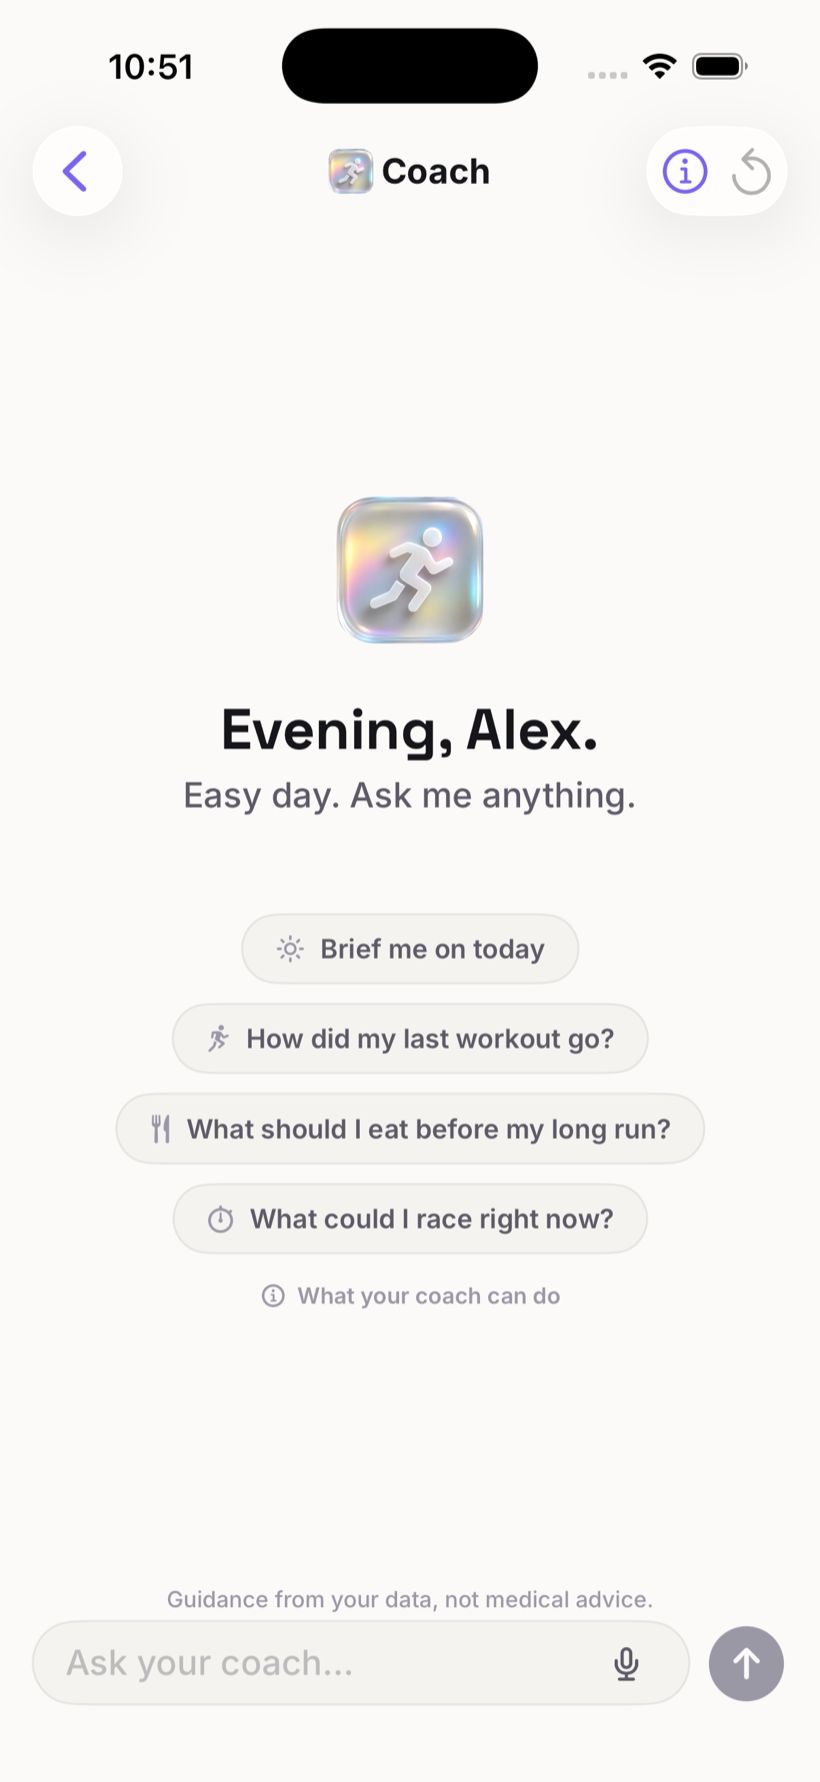
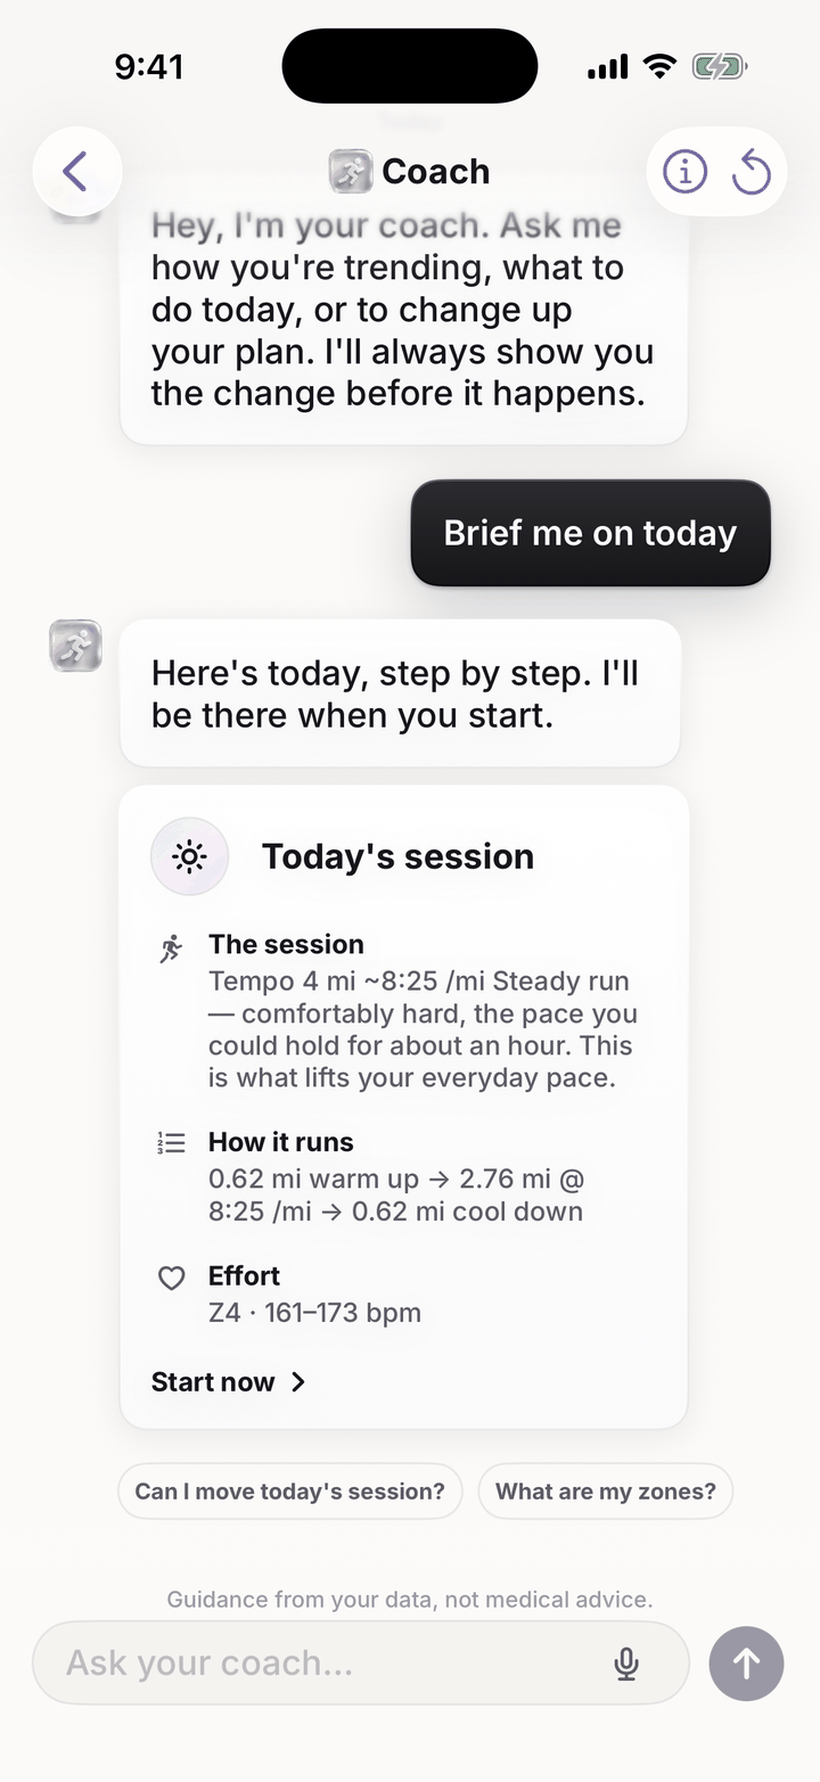
Ship the current site: real screens, weekly-anchored pricing, and honest membership copy
Brings production level with feat/route-suggestion's website/ (08-28/29 real
app screens + weekly pricing) and adds the 7-day-trial wording that replaces
"free, forever" now that onboarding is a membership gate.

Claude-Session: https://claude.ai/code/session_01HQfnZjmcd7Row84q6qVRCn

diff --git a/website/app/page.tsx b/website/app/page.tsx
@@ -11,16 +11,15 @@ const appSchema = {
   name: "Momentum: Run Training Plans",
   operatingSystem: "iOS",
   applicationCategory: "HealthApplication",
-  url: "https://momentumco.app",
+  url: "https://momentumrunning.app",
   installUrl: APP_STORE_URL,
   offers: [
-    { "@type": "Offer", price: "0", priceCurrency: "USD", description: "Free — track every run" },
-    { "@type": "Offer", price: "9.99", priceCurrency: "USD", description: "momentum Pro, monthly" },
+    { "@type": "Offer", price: "5.99", priceCurrency: "USD", description: "momentum Pro, weekly" },
     {
       "@type": "Offer",
-      price: "59.99",
+      price: "29.99",
       priceCurrency: "USD",
-      description: "momentum Pro, annual — save 50% vs monthly",
+      description: "momentum Pro, annual — 7-day free trial, then $0.58 a week, save 90% vs weekly",
     },
   ],
 };
@@ -37,6 +36,7 @@ export default function Home() {
         <Training />
         <Intelligence />
         <Fuel />
+        <Gallery />
         <Method />
         <RaceDay />
         <Pricing />
@@ -101,16 +101,16 @@ function Hero() {
           <div className="hero-orbit" aria-hidden />
           {/* Both chips quote the capture beside them — no invented numbers. */}
           <div className="stat-pill pill-1" aria-hidden>
-            <b>Easy 3.5 mi</b>
-            <small>Today&rsquo;s plan · 11:45 /mi</small>
+            <b>26.22 mi</b>
+            <small>Austin Marathon · traced</small>
           </div>
           <div className="stat-pill pill-2" aria-hidden>
-            <b>26.2 mi</b>
-            <small>Austin Marathon · traced</small>
+            <b>2:58:41</b>
+            <small>Finish · 6:49 /mi</small>
           </div>
           <PhoneFrame
             src="/shots/hero-route.png"
-            alt="Momentum's Today screen: the Austin Marathon course traced in lavender on a light map, with today's planned easy run ready to start."
+            alt="A finished Austin Marathon in Momentum: the whole course traced in lavender across the city, 26.22 miles in 2:58:41 at 6:49 per mile."
             large
             priority
           />
@@ -183,11 +183,11 @@ function Training() {
                 Base. Build. Peak. Taper. Every session has a reason, every pace has a purpose, and
                 missed days simply move.
               </p>
-              <p className="story-note">Week 1 · Base — laying the foundation</p>
+              <p className="story-note">Week 4 · Recovery — a planned down week</p>
               <div className="story-media">
                 <PhoneFrame
                   src="/shots/plan.png"
-                  alt="Momentum's weekly plan: a base week with an easy run and a strength day, each with its target."
+                  alt="Momentum's weekly plan: a marathon block 28 weeks out, showing a planned recovery week of 32 miles with an easy run, a recovery jog, two rest days, and a progression run."
                 />
               </div>
             </article>
@@ -265,7 +265,7 @@ function Intelligence() {
               <div className="aurora" aria-hidden />
               <PhoneFrame
                 src="/shots/coach.png"
-                alt="The Momentum coach: a chat that opens with suggested questions about today's session, your last workout, and what you could race."
+                alt="The Momentum coach: asked to brief today, it lays out the session step by step — a 4 mile tempo at 8:25 per mile, the warm up and cool down around it, and the Z4 heart-rate band it should sit in."
               />
             </div>
           </Reveal>
@@ -287,7 +287,7 @@ function Fuel() {
           <div className="duo-media">
             <PhoneFrame
               src="/shots/fuel.png"
-              alt="Momentum's Fuel page: calories and carbs banked for tomorrow's session, macro rings, and meals logged in plain language."
+              alt="Momentum's Fuel page: 3,050 calories against a 2,100 floor, roughly 390 grams of carbs banked for tomorrow's session, macro rings for carbs, protein, fat and sodium, and meals logged in plain language."
             />
           </div>
         </Reveal>
@@ -302,6 +302,72 @@ function Fuel() {
             </p>
           </div>
         </Reveal>
+      </div>
+    </section>
+  );
+}
+
+/* ————————————————————————————————————————————————————————————
+   6b · The rest of the app — the four screens the tour deck shows that the
+        sections above don't. A WRAPPING grid, never a horizontal scroller:
+        no page on this site moves sideways (owner rule 2026-08-20).
+   ———————————————————————————————————————————————————————————— */
+
+function Gallery() {
+  const shots = [
+    {
+      src: "/shots/trends.png",
+      cap: "Trends",
+      note: "469 miles this year, 88 active days",
+      alt: "Momentum's Trends: daily movement averaging 7.8 thousand steps, 144 miles this month against 469 this year, and a consistency heatmap of 88 active days over sixteen weeks.",
+    },
+    {
+      src: "/shots/vitals.png",
+      cap: "Vitals",
+      note: "HRV, resting heart rate, breathing, temperature",
+      alt: "Momentum's vitals: heart-rate variability at 68 milliseconds, three above normal, a resting heart rate of 52, breathing at 14.3 a minute and a wrist temperature of 34.6 degrees, each with its own trend.",
+    },
+    {
+      src: "/shots/strength.png",
+      cap: "Strength",
+      note: "165,000 lb moved in seven days",
+      alt: "Momentum's muscle load: 165 thousand pounds moved across every lift in seven days, split around a wheel by region — legs, arms, back, shoulders, core and chest.",
+    },
+    {
+      src: "/shots/run-detail.png",
+      cap: "Every run, kept",
+      note: "10.16 mi · 1:30:12 · 8:53 /mi",
+      alt: "A finished long run in Momentum: the Lady Bird Lake loop traced in lavender through Austin, 10.16 miles in 1 hour 30 at 8:53 per mile.",
+    },
+  ];
+  return (
+    <section className="section" id="more">
+      <div className="wrap">
+        <Reveal>
+          <div className="section-head">
+            <div>
+              <p className="kicker">Everything else</p>
+              <h2 className="display">The rest of the picture.</h2>
+            </div>
+            <p className="lede">
+              Training is one screen of many. What you did, what it cost you, and what your body did
+              about it — all of it kept, all of it yours.
+            </p>
+          </div>
+        </Reveal>
+        <div className="gallery">
+          {shots.map((shot) => (
+            <Reveal key={shot.src}>
+              <figure className="gallery-item">
+                <PhoneFrame src={shot.src} alt={shot.alt} />
+                <figcaption>
+                  <b>{shot.cap}</b>
+                  <span>{shot.note}</span>
+                </figcaption>
+              </figure>
+            </Reveal>
+          ))}
+        </div>
       </div>
     </section>
   );
@@ -356,6 +422,9 @@ function Method() {
 
 /* ————————————————————————————————————————————————————————————
    8 · Race day — the charcoal proof card. The numbers quote the capture.
+        The marathon RESULT moved up to the hero (2026-08-29), so this card shows the other half
+        of the promise the copy already made — "a taper that delivers you to the start line
+        ready" — and its three numbers quote the readiness screen beside them, not the finish.
    ———————————————————————————————————————————————————————————— */
 
 function RaceDay() {
@@ -372,16 +441,16 @@ function RaceDay() {
             </p>
             <div className="race-stats">
               <div className="race-stat">
-                <b className="num">26.22 mi</b>
-                <small>Austin Marathon</small>
+                <b className="num">100</b>
+                <small>Readiness · primed</small>
               </div>
               <div className="race-stat">
-                <b className="num">2:58:41</b>
-                <small>Finish · sub-3</small>
+                <b className="num">7h 19m</b>
+                <small>Sleep</small>
               </div>
               <div className="race-stat">
-                <b className="num">6:49 /mi</b>
-                <small>Avg pace</small>
+                <b className="num">0.89</b>
+                <small>Training load</small>
               </div>
             </div>
           </div>
@@ -389,8 +458,8 @@ function RaceDay() {
         <Reveal>
           <div className="race-media">
             <PhoneFrame
-              src="/shots/run-detail.png"
-              alt="A finished marathon in Momentum: the Austin course traced in lavender, 26.22 miles in 2:58:41 at 6:49 per mile."
+              src="/shots/readiness.png"
+              alt="Momentum's readiness on race morning: a ring reading 100, primed, with the note 'well recovered — a good day to push', over the day's strain, training load and sleep."
             />
           </div>
         </Reveal>
@@ -432,7 +501,7 @@ function Pricing() {
             <div className="price-row">
               <h3>momentum Pro</h3>
               <p className="price">
-                $59.99 <span>/ year</span>
+                $0.58 <span>/ week</span>
               </p>
             </div>
             <div className="features">
@@ -447,9 +516,10 @@ function Pricing() {
                 Get momentum Pro <span className="arrow" aria-hidden>↗</span>
               </a>
               <p className="price-note">
-                $59.99/year — under $5 a month, half the monthly price. Or $9.99/month.
+                7 days free, then $29.99 billed yearly — $0.58 a week, 90% off the weekly price. Or
+                $5.99/week, no trial.
                 <br />
-                Tracking every run is free, forever. Billed by Apple · cancel anytime.
+                Billed by Apple · cancel anytime in Settings.
               </p>
             </div>
           </div>
@@ -466,8 +536,8 @@ function Pricing() {
 function FAQ() {
   const items = [
     {
-      q: "Is momentum free?",
-      a: "Tracking every run is free, forever. momentum Pro — the full adaptive plan, AI coach, voice guidance, and advanced analytics — is $59.99/year, which works out to under $5 a month, half the monthly price. Prefer month to month? $9.99.",
+      q: "Is there a free trial?",
+      a: "Yes. momentum is a membership: every new runner starts with a 7-day free trial of momentum Pro on the annual plan, then $29.99 billed yearly, which works out to $0.58 a week, 90% off the weekly price. Prefer to go week to week? $5.99, no trial. Cancel anytime in your Apple subscriptions and you keep access until the end of the period.",
     },
     {
       q: "Do I need an Apple Watch or heart-rate strap?",

diff --git a/website/app/globals.css b/website/app/globals.css
@@ -174,10 +174,17 @@ a {
   display: inline-flex;
   align-items: center;
   gap: 12px;
+  /* Lets the wordmark be the thing that yields when the row is tight, rather than the chip. */
+  min-width: 0;
 }
 
 /* The glass-runner app icon in a quiet white chip — the reference's circular mark. */
 .brand-chip {
+  /* NEVER shrink. As a flex child with the default `flex-shrink: 1`, a nav row too wide for the
+     viewport squeezed this circle horizontally into an ellipse and crushed the app icon inside it
+     — the owner's "the app icon feels condensed in the top left corner on mobile" (2026-08-29).
+     A round mark that is round only when there is room to spare is not a mark. */
+  flex: 0 0 auto;
   width: 42px;
   height: 42px;
   border-radius: 50%;
@@ -199,6 +206,8 @@ a {
 .wordmark {
   height: 19px;
   width: auto;
+  flex: 0 1 auto;
+  min-width: 0;
 }
 
 .nav-links {
@@ -321,6 +330,13 @@ a {
 .btn-sm {
   padding: 11px 18px;
   font-size: 12.5px;
+}
+
+/* A pill that wraps is a pill that has become a box. Two lines of "Get the app" also doubled the
+   nav's height on a phone, which is what pushed the whole row into the squeeze above. */
+.btn {
+  white-space: nowrap;
+  flex: 0 0 auto;
 }
 
 .arrow {
@@ -1375,6 +1391,47 @@ a {
   text-underline-offset: 3px;
 }
 
+/* ——— the "everything else" gallery ——— */
+
+/* `auto-fit` + `minmax`, so the row REFLOWS from four to two to one as the viewport narrows.
+   Never a horizontal scroller: no page on this site moves sideways (owner rule 2026-08-20),
+   and `html, body { overflow-x: clip }` is the backstop, not the design. */
+.gallery {
+  margin-top: 52px;
+  display: grid;
+  grid-template-columns: repeat(auto-fit, minmax(210px, 1fr));
+  gap: 34px 24px;
+  align-items: start;
+}
+
+.gallery-item {
+  margin: 0;
+  display: flex;
+  flex-direction: column;
+  gap: 18px;
+}
+
+.gallery-item figcaption {
+  display: flex;
+  flex-direction: column;
+  gap: 3px;
+  padding-left: 2px;
+}
+
+.gallery-item figcaption b {
+  font-size: 15px;
+  font-weight: 620;
+  letter-spacing: -0.01em;
+  color: var(--ink);
+}
+
+.gallery-item figcaption span {
+  font-size: 13.5px;
+  line-height: 1.45;
+  color: var(--ink-2);
+  font-variant-numeric: tabular-nums;
+}
+
 /* ——— responsive ——— */
 
 @media (max-width: 1080px) {
@@ -1594,6 +1651,42 @@ a {
   }
   .marquee-track {
     font-size: 10px;
+  }
+}
+
+/* ——— phones proper. The 760px block above is really a tablet layout; a 390px screen needs the
+   brand row itself to give ground, or the chip, the wordmark, the pill and the burger fight over
+   350px of gutter-to-gutter space. ——— */
+
+@media (max-width: 480px) {
+  .nav-inner {
+    gap: 12px;
+  }
+  .brand {
+    gap: 9px;
+  }
+  .brand-chip {
+    width: 36px;
+    height: 36px;
+  }
+  .brand-chip img {
+    width: 23px;
+    height: 23px;
+    border-radius: 6px;
+  }
+  .wordmark {
+    height: 16px;
+  }
+  .nav-right {
+    gap: 10px;
+  }
+  .nav-links a.btn {
+    padding: 10px 14px;
+    font-size: 12px;
+  }
+  .gallery {
+    margin-top: 40px;
+    gap: 30px 18px;
   }
 }
 

diff --git a/website/app/layout.tsx b/website/app/layout.tsx
@@ -25,9 +25,11 @@ const inter = localFont({
 });
 
 export const metadata: Metadata = {
-  // The canonical home (momentumco.app, live 2026-07-12): absolute URLs for OG/Twitter cards
-  // and canonicals resolve against this, not the per-deployment *.vercel.app hostname.
-  metadataBase: new URL("https://momentumco.app"),
+  // The canonical home (momentumrunning.app, primary since 2026-08-28 — momentumco.app and both
+  // www variants 308 here): absolute URLs for OG/Twitter cards and canonicals resolve against
+  // this, not the per-deployment *.vercel.app hostname. The @momentumco.app EMAIL addresses below
+  // are unchanged — that mailbox is ImprovMX-backed and is what the App Store listing contacts.
+  metadataBase: new URL("https://momentumrunning.app"),
   alternates: { canonical: "/" },
   title: "momentum — the running coach that adapts to you",
   description:
@@ -38,7 +40,7 @@ export const metadata: Metadata = {
     description:
       "The adaptive running coach: deterministic training science, live guidance, and a plan that bends around your life.",
     type: "website",
-    url: "https://momentumco.app",
+    url: "https://momentumrunning.app",
     siteName: "momentum",
     images: [
       {
